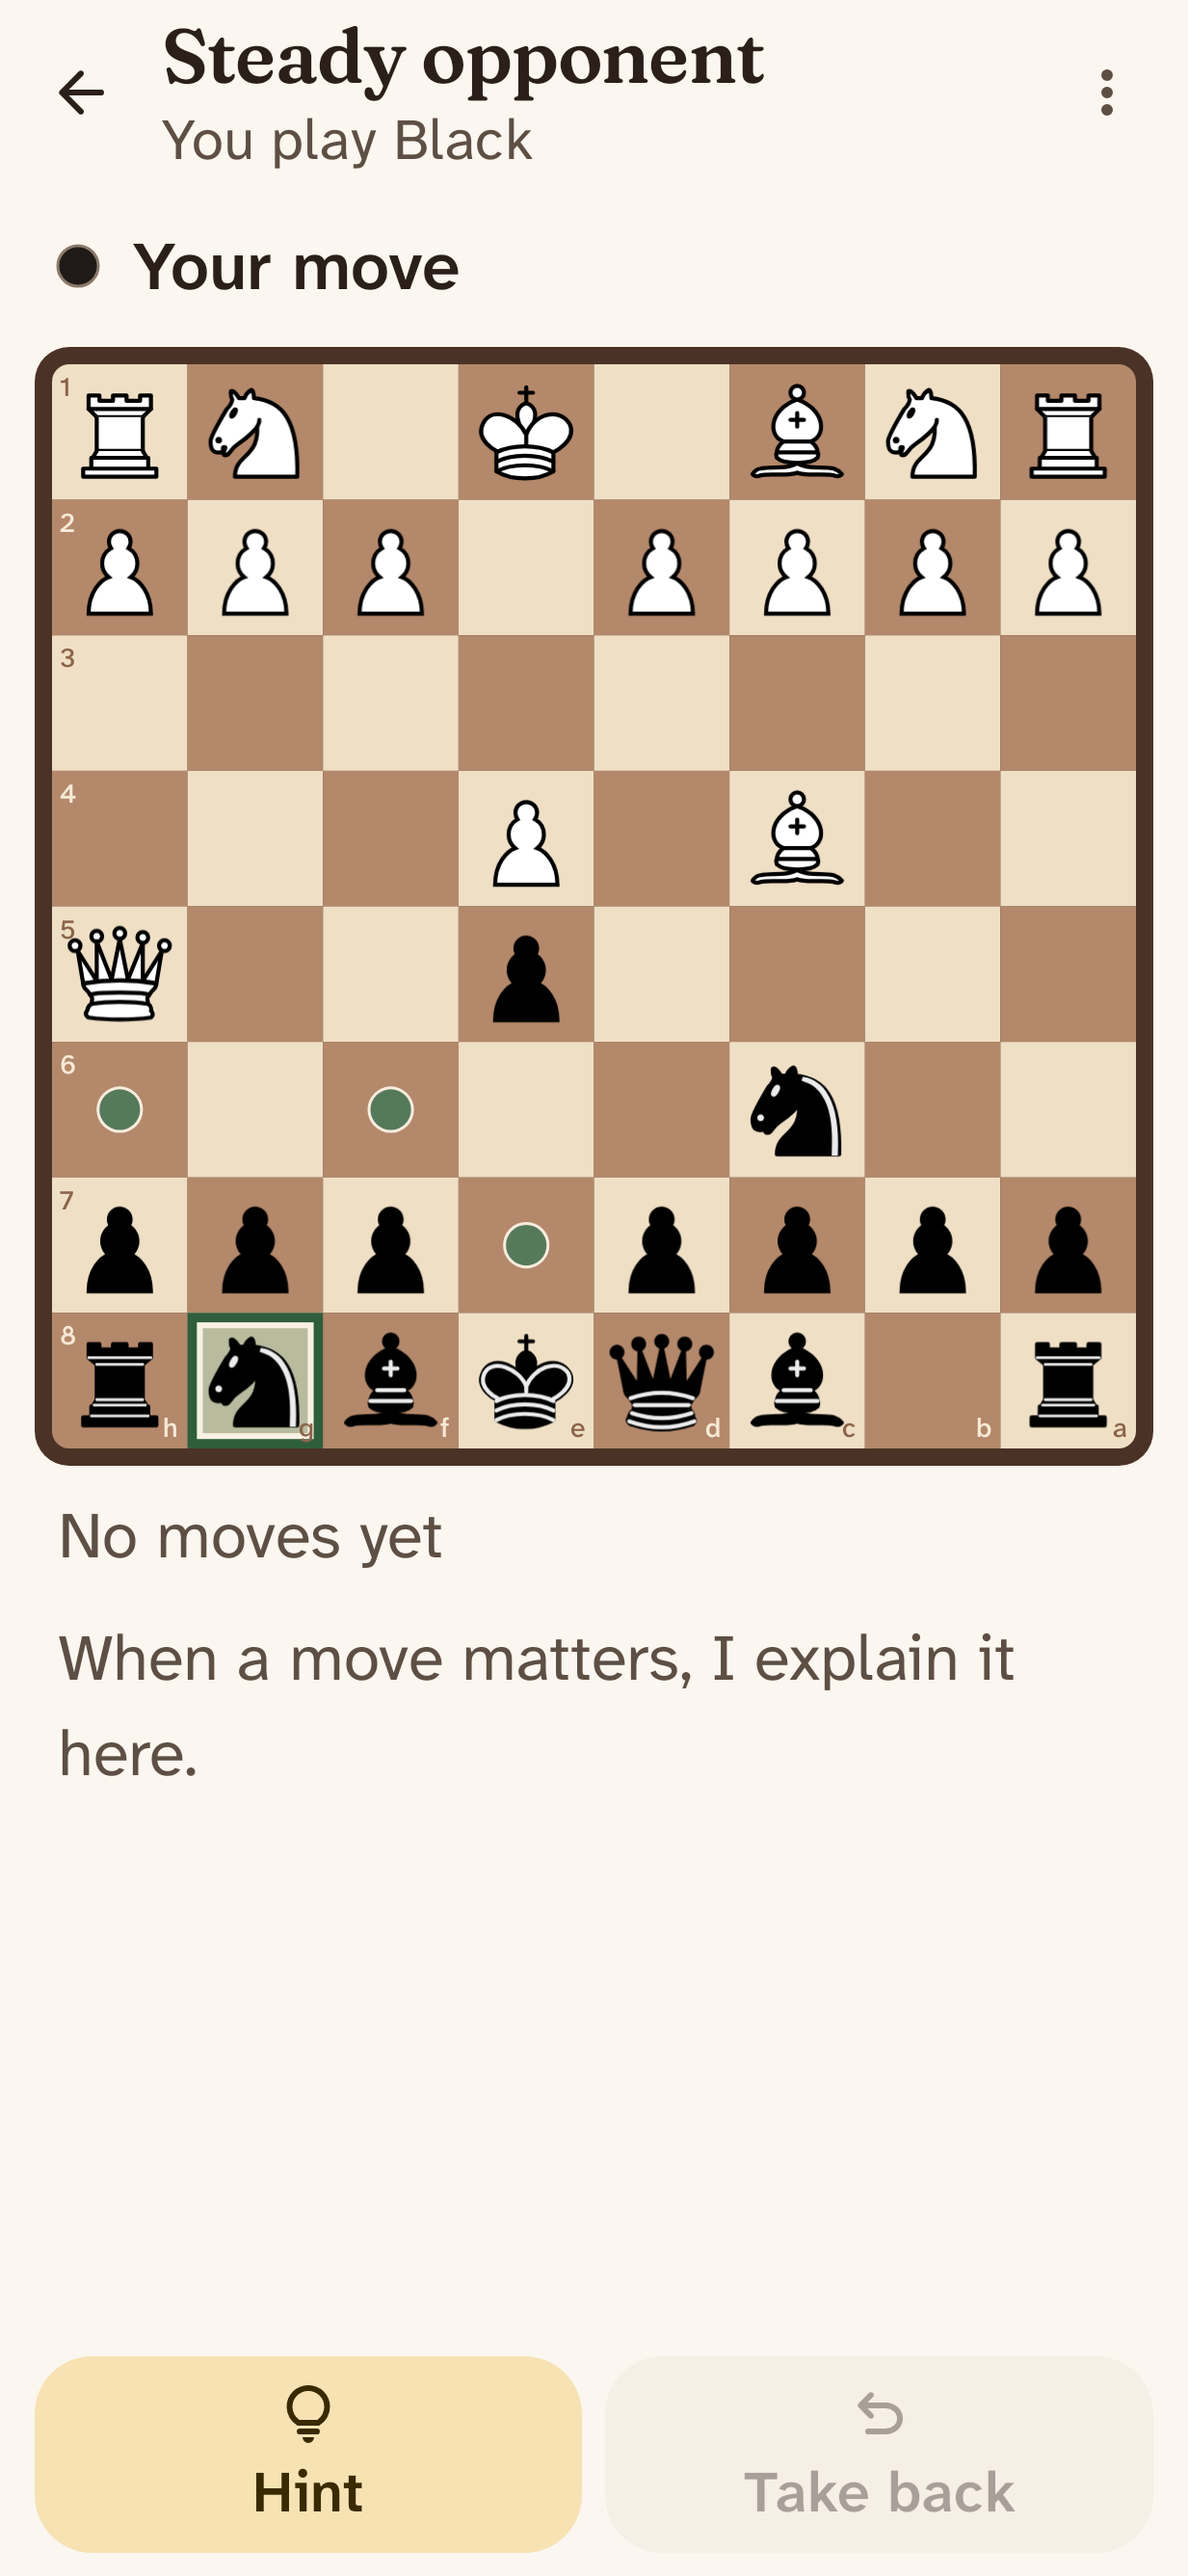
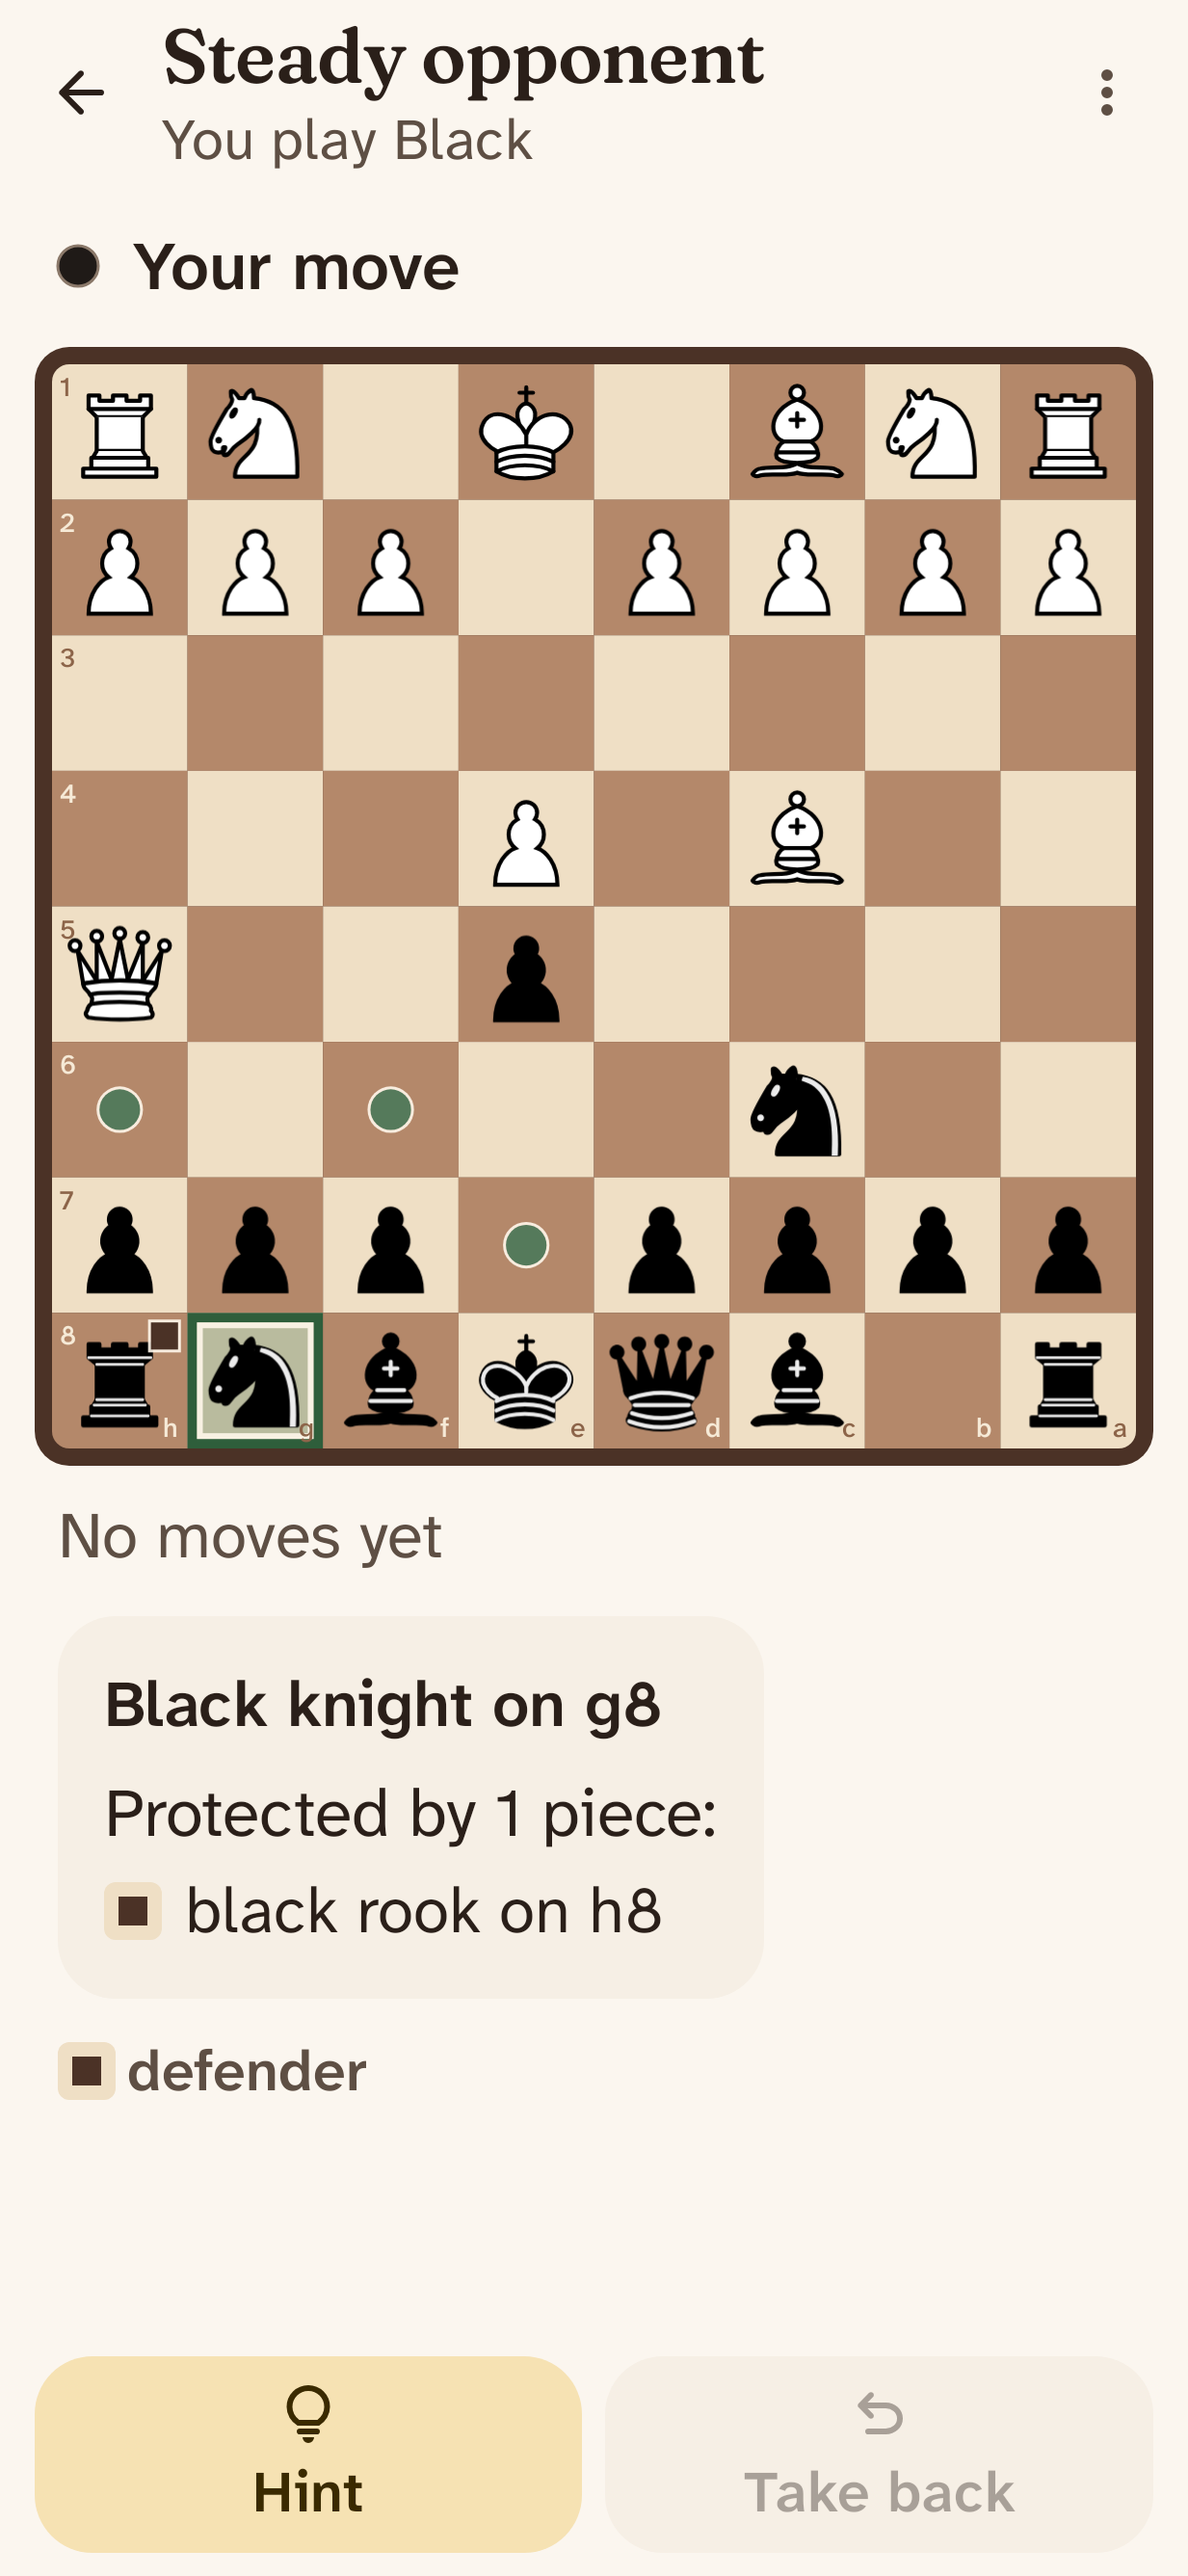
Show how a tapped piece is protected
Tapping any piece during the player's turn, the opponent's or a piece
that cannot move included, now selects it, marks its defenders on the
board and lists them in the coaching panel ("Protected by 1 piece:
black knight on c6", or "Not protected by any piece."). The player's
movable pieces still show their legal moves.

Defenders come from the session through the coach's own definition,
so a pinned piece only defends along its pin and the board agrees with
the explanations. It is a board fact the player could count, so it is
not recorded as a hint.

diff --git a/app/src/main/kotlin/ch/lkmc/chessandcocoa/ui/game/CoachPanel.kt b/app/src/main/kotlin/ch/lkmc/chessandcocoa/ui/game/CoachPanel.kt
@@ -34,6 +34,7 @@ import androidx.compose.ui.Modifier
 import androidx.compose.ui.draw.clip
 import androidx.compose.ui.graphics.drawscope.Stroke
 import androidx.compose.ui.res.painterResource
+import androidx.compose.ui.res.pluralStringResource
 import androidx.compose.ui.res.stringResource
 import androidx.compose.ui.semantics.LiveRegionMode
 import androidx.compose.ui.semantics.Role
@@ -45,7 +46,9 @@ import androidx.compose.ui.semantics.semantics
 import androidx.compose.ui.unit.dp
 import ch.lkmc.chessandcocoa.R
 import ch.lkmc.chessandcocoa.chess.OutcomeReason
+import ch.lkmc.chessandcocoa.chess.Piece
 import ch.lkmc.chessandcocoa.chess.Side
+import ch.lkmc.chessandcocoa.chess.Square
 import ch.lkmc.chessandcocoa.coach.evidence.MarkedSquare
 import ch.lkmc.chessandcocoa.coach.evidence.SquareRole
 import ch.lkmc.chessandcocoa.coach.teach.Hint
@@ -139,14 +142,19 @@ fun EvidenceBanner(modifier: Modifier = Modifier) {
     }
 }
 
+/** The selected piece and the pieces of its own side that defend it, as the session computed them. */
+data class Protection(val square: Square, val piece: Piece, val defenders: List<Pair<Square, Piece>>)
+
 /**
- * The coaching panel: the teaching points for this turn, any hint, and the
- * legend for the marks on the board. One point per event (Section 4.3).
+ * The coaching panel: how a selected piece is protected, the teaching points
+ * for this turn, any hint, and the legend for the marks on the board. One
+ * point per event (Section 4.3).
  */
 @Composable
 fun CoachPanel(
     state: SessionState,
     marks: List<MarkedSquare>,
+    protection: Protection?,
     feedbackHidden: Boolean,
     onToggleFeedback: () -> Unit,
     onShowWhy: (TeachingEvent) -> Unit,
@@ -156,9 +164,10 @@ fun CoachPanel(
         Modifier.fillMaxSize().verticalScroll(rememberScrollState()).padding(horizontal = Space.gutter, vertical = Space.s),
         verticalArrangement = Arrangement.spacedBy(Space.m),
     ) {
+        protection?.let { ProtectionNote(it) }
         state.opponentIntent?.let { IntentNote(it) }
 
-        if (state.events.isEmpty() && state.hint == null && state.opponentIntent == null) {
+        if (state.events.isEmpty() && state.hint == null && state.opponentIntent == null && protection == null) {
             Text(stringResource(R.string.coach_empty), style = MaterialTheme.typography.bodyMedium, color = MaterialTheme.colorScheme.onSurfaceVariant)
         }
 
@@ -169,6 +178,32 @@ fun CoachPanel(
         if (marks.isNotEmpty()) MarkLegend(marks.map { it.role }.toSet())
 
         if (history == HistoryPlacement.IN_PANEL) MoveHistory(state.moves, HistoryLayout.FLOW)
+    }
+}
+
+/** A board fact the player could count themselves, so it is not a hint and marks nothing as assisted. */
+@Composable
+private fun ProtectionNote(protection: Protection) {
+    val count = protection.defenders.size
+    val summary = if (count == 0) stringResource(R.string.protection_none) else pluralStringResource(R.plurals.protection_count, count, count)
+    Surface(color = MaterialTheme.colorScheme.surfaceContainerLow, shape = MaterialTheme.shapes.large, modifier = Modifier.widthIn(max = Space.readingWidth)) {
+        Column(Modifier.padding(Space.l), verticalArrangement = Arrangement.spacedBy(Space.s)) {
+            Text(
+                stringResource(R.string.piece_on_square, pieceName(protection.piece), protection.square.name).replaceFirstChar(Char::titlecase),
+                style = MaterialTheme.typography.titleSmall,
+                modifier = Modifier.semantics { heading() },
+            )
+            // One announcement per tap: the count, then each defender.
+            Column(Modifier.semantics(mergeDescendants = true) { liveRegion = LiveRegionMode.Polite }, verticalArrangement = Arrangement.spacedBy(Space.xs)) {
+                Text(summary, style = MaterialTheme.typography.bodyLarge)
+                protection.defenders.forEach { (square, piece) ->
+                    Row(verticalAlignment = Alignment.CenterVertically) {
+                        MarkGlyph(SquareRole.DEFENDER)
+                        Text(stringResource(R.string.piece_on_square, pieceName(piece), square.name), style = MaterialTheme.typography.bodyMedium, modifier = Modifier.padding(start = Space.s))
+                    }
+                }
+            }
+        }
     }
 }
 

diff --git a/app/src/main/kotlin/ch/lkmc/chessandcocoa/ui/game/GameScreen.kt b/app/src/main/kotlin/ch/lkmc/chessandcocoa/ui/game/GameScreen.kt
@@ -56,6 +56,7 @@ import ch.lkmc.chessandcocoa.chess.Side
 import ch.lkmc.chessandcocoa.chess.Square
 import ch.lkmc.chessandcocoa.coach.decide.Difficulty
 import ch.lkmc.chessandcocoa.coach.evidence.MarkedSquare
+import ch.lkmc.chessandcocoa.coach.evidence.SquareRole
 import ch.lkmc.chessandcocoa.coach.teach.TeachingEvent
 import ch.lkmc.chessandcocoa.session.EvidenceFrame
 import ch.lkmc.chessandcocoa.session.EvidenceLine
@@ -141,7 +142,8 @@ fun GameScreen(session: GameSession, navigation: GameNavigation) {
                     session.play(moves.single())
                 }
                 moves.size > 1 -> promotion = moves
-                else -> selected = if (square != from && currentBoard.legalMoves.containsKey(square)) square else null
+                // Any piece can be selected to see how it is protected; the player's own also show their moves.
+                else -> selected = if (square != from && square in currentBoard.pieces) square else null
             }
         }
     }
@@ -155,6 +157,12 @@ fun GameScreen(session: GameSession, navigation: GameNavigation) {
     val liveMarks: List<MarkedSquare> = buildList {
         if (!feedbackHidden) state.events.filter { it.ply == record.ply }.forEach { addAll(it.marks) }
         state.hint?.let { addAll(it.marks) }
+        selected?.let { square -> liveBoard.defenders[square].orEmpty().forEach { add(MarkedSquare(it, SquareRole.DEFENDER)) } }
+    }
+    val protection = selected?.let { square ->
+        liveBoard.pieces[square]?.let { piece ->
+            Protection(square, piece, liveBoard.defenders[square].orEmpty().mapNotNull { defender -> liveBoard.pieces[defender]?.let { defender to it } })
+        }
     }
 
     val shown = evidence
@@ -208,6 +216,7 @@ fun GameScreen(session: GameSession, navigation: GameNavigation) {
             CoachPanel(
                 state = state,
                 marks = liveMarks,
+                protection = protection,
                 feedbackHidden = feedbackHidden,
                 onToggleFeedback = { feedbackHidden = !feedbackHidden },
                 onShowWhy = showWhy,

diff --git a/app/src/main/kotlin/ch/lkmc/chessandcocoa/session/BoardSnapshot.kt b/app/src/main/kotlin/ch/lkmc/chessandcocoa/session/BoardSnapshot.kt
@@ -10,6 +10,7 @@ import ch.lkmc.chessandcocoa.chess.Side
 import ch.lkmc.chessandcocoa.chess.Square
 import ch.lkmc.chessandcocoa.coach.evidence.Continuation
 import ch.lkmc.chessandcocoa.coach.evidence.MarkedSquare
+import ch.lkmc.chessandcocoa.coach.facts.Facts
 
 /**
  * Everything the board needs to draw one position, computed by the session
@@ -24,6 +25,12 @@ data class BoardSnapshot(
     val checkSquare: Square?,
     /** Legal moves by origin square; empty when the player may not move. */
     val legalMoves: Map<Square, List<Move>>,
+    /**
+     * How each piece is protected: for every occupied square, the squares of
+     * its own side's pieces that defend it, cheapest first. Empty when the
+     * player may not move.
+     */
+    val defenders: Map<Square, List<Square>>,
 ) {
     companion object {
         fun of(position: Position, orientation: Side, lastMove: Move?, playable: Boolean): BoardSnapshot = BoardSnapshot(
@@ -33,7 +40,13 @@ data class BoardSnapshot(
             lastMove = lastMove,
             checkSquare = if (position.isCheck()) position.kingSquare(position.sideToMove) else null,
             legalMoves = if (playable) position.legalMoves().groupBy { it.from } else emptyMap(),
+            defenders = if (playable) defenders(position) else emptyMap(),
         )
+
+        /** The coach's own definition (a pinned piece only defends along its pin), so the board agrees with the explanations. */
+        private fun defenders(position: Position): Map<Square, List<Square>> = position.pieces().keys.associateWith { square ->
+            Facts.defenders(position, square).sortedWith(compareBy({ position.pieceAt(it)?.type?.ordinal }, { it.index }))
+        }
 
         fun of(game: Game, orientation: Side, playable: Boolean): BoardSnapshot =
             of(game.current, orientation, game.moves.lastOrNull(), playable)

diff --git a/app/src/test/kotlin/ch/lkmc/chessandcocoa/ui/ScreensTest.kt b/app/src/test/kotlin/ch/lkmc/chessandcocoa/ui/ScreensTest.kt
@@ -526,6 +526,32 @@ class ScreensTest {
     }
 
     @Test
+    fun tappingAnyPieceShowsHowItIsProtected() {
+        val session = engineSession()
+        session.newGame(SideChoice.BLACK, Difficulty.STEADY, startFen = SCHOLAR_FEN)
+        show { GameScreen(session, navigation()) }
+        compose.waitUntil(TIMEOUT) { session.state.value.phase == Phase.HUMAN_TURN }
+
+        // The opponent's pieces can be inspected too.
+        compose.onNodeWithContentDescription("c4, white bishop").performClick()
+        compose.onNodeWithText("White bishop on c4").assertIsDisplayed()
+        compose.onNodeWithText("Not protected by any piece.").assertIsDisplayed()
+
+        // So can a piece that cannot move; its defenders are marked on the board.
+        compose.onNodeWithContentDescription("e5, black pawn").performClick()
+        compose.onNodeWithText("Black pawn on e5").assertIsDisplayed()
+        compose.onNodeWithText("Protected by 1 piece:").assertIsDisplayed()
+        compose.onNodeWithText("black knight on c6").assertIsDisplayed()
+        compose.onNodeWithContentDescription("c6, black knight").assert(SemanticsMatcher.expectValue(SemanticsProperties.StateDescription, "defender"))
+        compose.onRoot().captureRoboImage(shot("piece-protection"))
+
+        // Tapping it again clears the selection, and with it the note.
+        compose.onNodeWithContentDescription("e5, black pawn").performClick()
+        compose.onNodeWithText("Black pawn on e5").assertDoesNotExist()
+        assertTrue(session.state.value.record!!.hints.isEmpty(), "inspecting a piece is not a hint")
+    }
+
+    @Test
     fun aPawnPromotesThroughTheChooser() {
         val session = engineSession()
         session.newGame(SideChoice.WHITE, Difficulty.STEADY, startFen = PROMOTION_FEN)

diff --git a/app/src/test/kotlin/ch/lkmc/chessandcocoa/session/BoardSnapshotTest.kt b/app/src/test/kotlin/ch/lkmc/chessandcocoa/session/BoardSnapshotTest.kt
@@ -1,0 +1,42 @@
+// SPDX-License-Identifier: GPL-3.0-or-later
+package ch.lkmc.chessandcocoa.session
+
+import ch.lkmc.chessandcocoa.chess.Game
+import ch.lkmc.chessandcocoa.chess.Position
+import ch.lkmc.chessandcocoa.chess.Side
+import ch.lkmc.chessandcocoa.chess.Square
+import kotlin.test.Test
+import kotlin.test.assertEquals
+import kotlin.test.assertTrue
+
+/** What the board shows when the player taps a piece to see how it is protected. */
+class BoardSnapshotTest {
+
+    @Test
+    fun aPieceIsDefendedByItsOwnSidesPiecesCheapestFirst() {
+        val game = Game.new().let { it.play(it.current.parseSan("Nf3")) }
+
+        val board = BoardSnapshot.of(game, Side.WHITE, playable = true)
+
+        assertEquals(listOf("e2", "g2").map(Square::parse), board.defenders[Square.parse("f3")])
+        // Knights, then the bishop, the queen, and the king last.
+        assertEquals(listOf("b1", "f3", "c1", "d1", "e1").map(Square::parse), board.defenders[Square.parse("d2")])
+    }
+
+    @Test
+    fun aPinnedPieceDoesNotDefendOffItsPin() {
+        // The bishop on b4 pins the knight on d2 to the king, so only the pawn on d3 defends e4.
+        val position = Position.fromFen("4k3/8/8/8/1b2P3/3P4/3N4/4K3 w - - 0 1")
+
+        val board = BoardSnapshot.of(position, Side.WHITE, lastMove = null, playable = true)
+
+        assertEquals(listOf(Square.parse("d3")), board.defenders[Square.parse("e4")])
+    }
+
+    @Test
+    fun aBoardThatTakesNoMovesShowsNoProtection() {
+        val board = BoardSnapshot.of(Game.new(), Side.WHITE, playable = false)
+
+        assertTrue(board.defenders.isEmpty())
+    }
+}

diff --git a/docs/DESIGN.md b/docs/DESIGN.md
@@ -83,7 +83,7 @@ Claims ([`Claims.kt`](../coach/src/main/kotlin/ch/lkmc/chessandcocoa/coach/evide
 
 The visual direction (concept Section 4.5) is "evening study": cream paper and cocoa ink by day, deep cocoa surfaces in the evening, following the system setting. All Compose colour lives in [`ui/theme`](../app/src/main/kotlin/ch/lkmc/chessandcocoa/ui/theme/Color.kt): every Material 3 role is set in both themes, and board and mark colours sit in `CocoaColors`. The window background in `res/values*/colors.xml` repeats the paper tone, because the platform theme cannot read Compose colours. Four accents carry fixed meanings: sage for guidance (selection, legal moves, "Show me why"), honey for the last move and hints, terracotta for check and serious news, and mulberry for teaching targets and threats. Fraunces sets headings and Atkinson Hyperlegible Next, drawn for low-vision readers, sets body text and notation.
 
-The board's size depends only on the window, so coaching never moves it. Landscape and wide, near-square windows place coaching beside the board; tall windows stack it below. Tapping feedback or "Show me why" replays its evidence on the main board, under a sage frame and a banner saying the game is unchanged; Back to game or system Back restores play. Piece marks follow their participants through captures; arrows and text describe the next move. An exposed-piece explanation can compare the capture with a stronger alternative that enables a recapture, checked on both branches and labeled as conditional. The last move slides into place only when the shown position advanced by exactly one move within the same line. Screen readers reach the status, coaching and actions before the board's 64 labelled squares.
+The board's size depends only on the window, so coaching never moves it. During the player's turn, tapping any piece selects it and lists, and marks on the board, the pieces of its own side that defend it; this board fact is not counted as a hint. Landscape and wide, near-square windows place coaching beside the board; tall windows stack it below. Tapping feedback or "Show me why" replays its evidence on the main board, under a sage frame and a banner saying the game is unchanged; Back to game or system Back restores play. Piece marks follow their participants through captures; arrows and text describe the next move. An exposed-piece explanation can compare the capture with a stronger alternative that enables a recapture, checked on both branches and labeled as conditional. The last move slides into place only when the shown position advanced by exactly one move within the same line. Screen readers reach the status, coaching and actions before the board's 64 labelled squares.
 
 ## 5. Measured results
 
